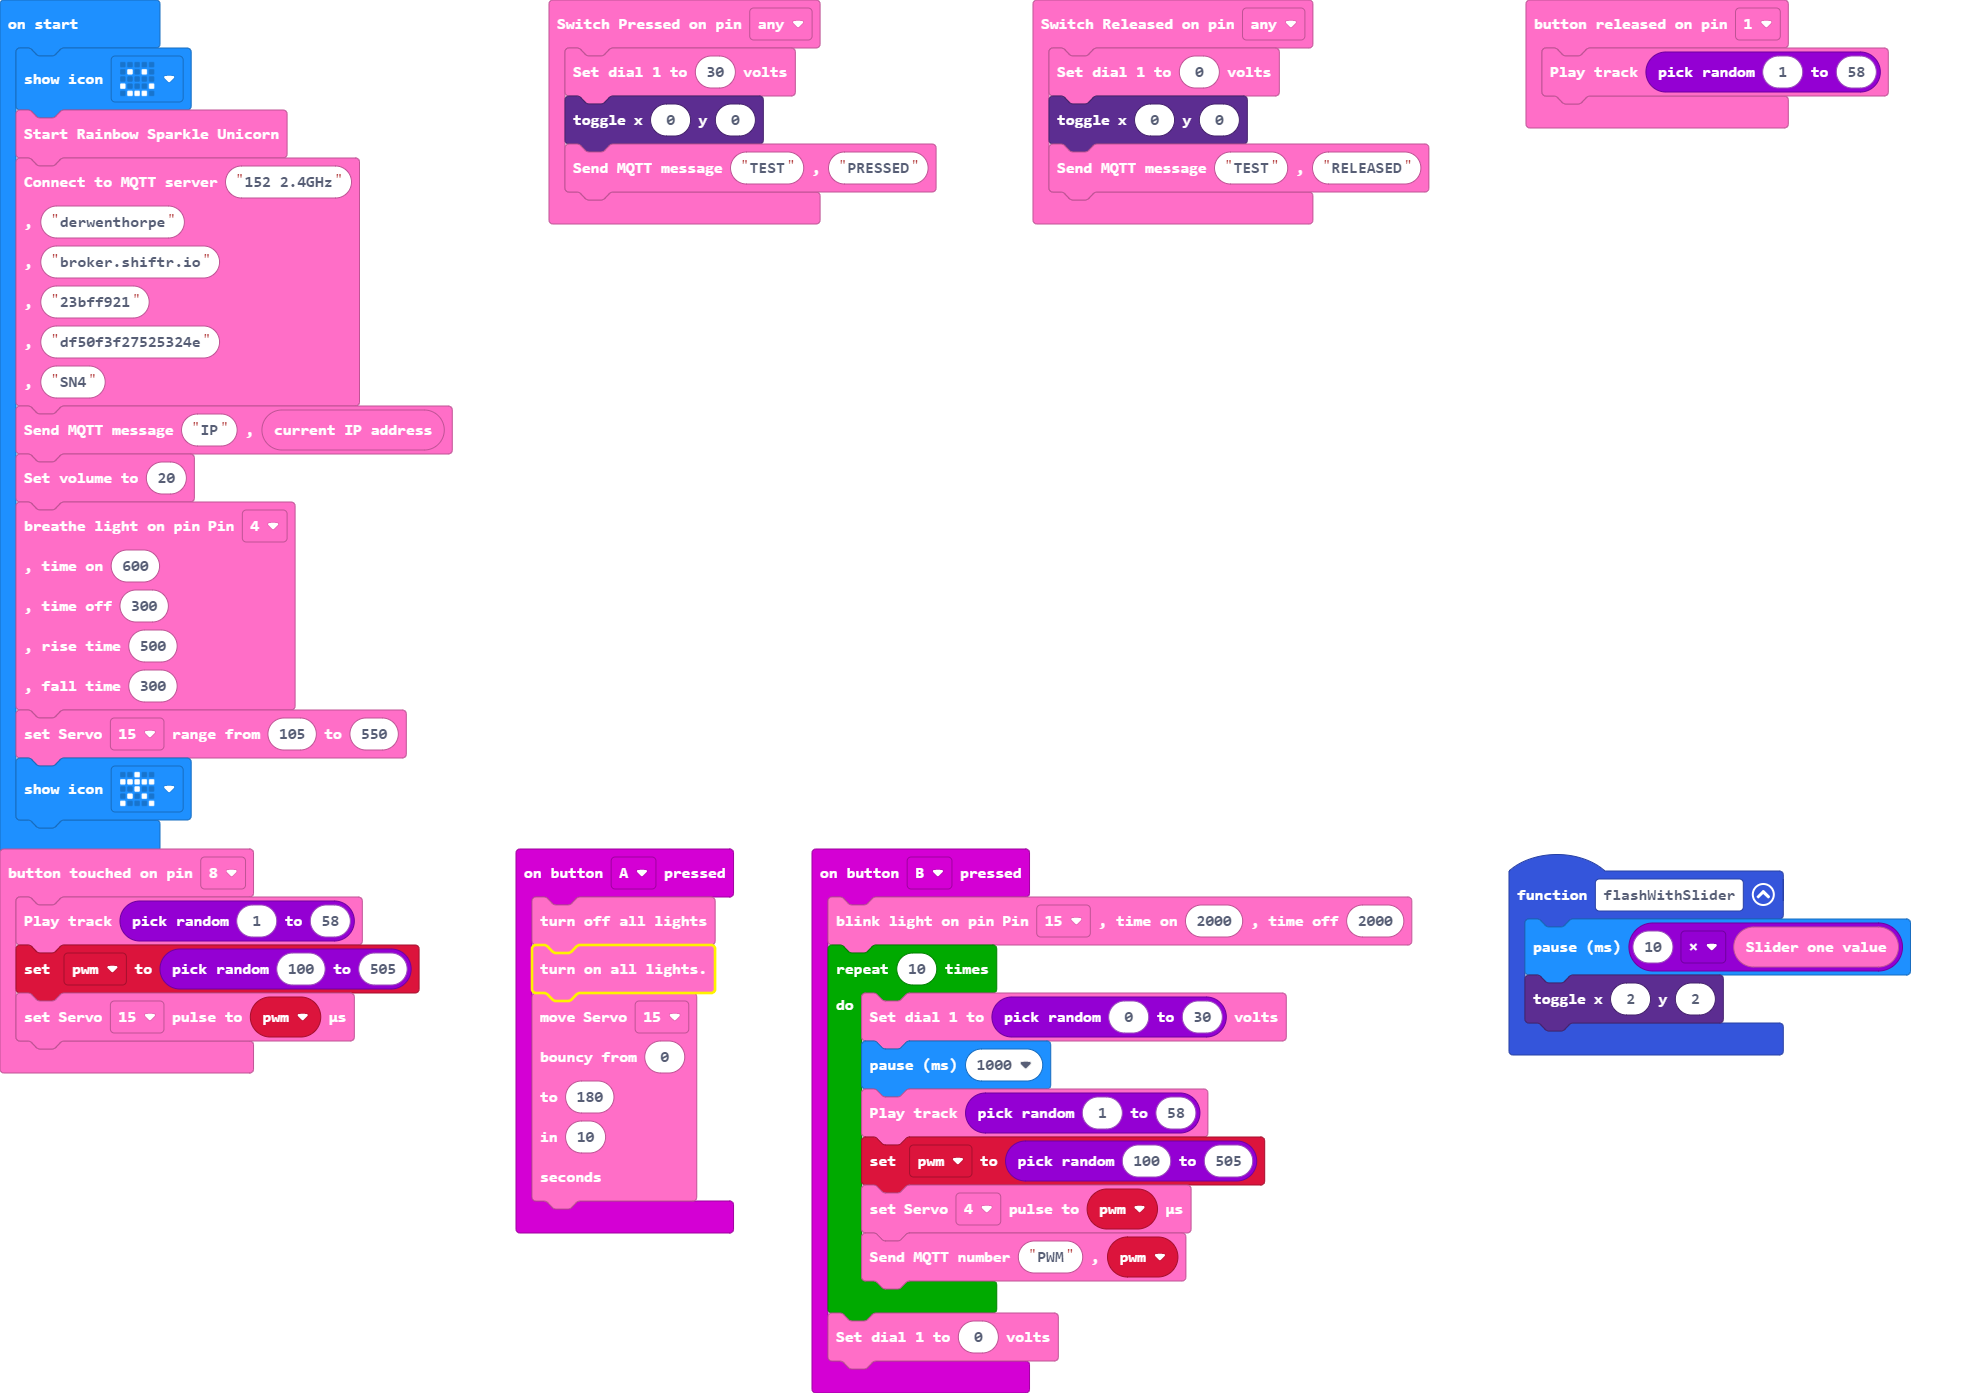
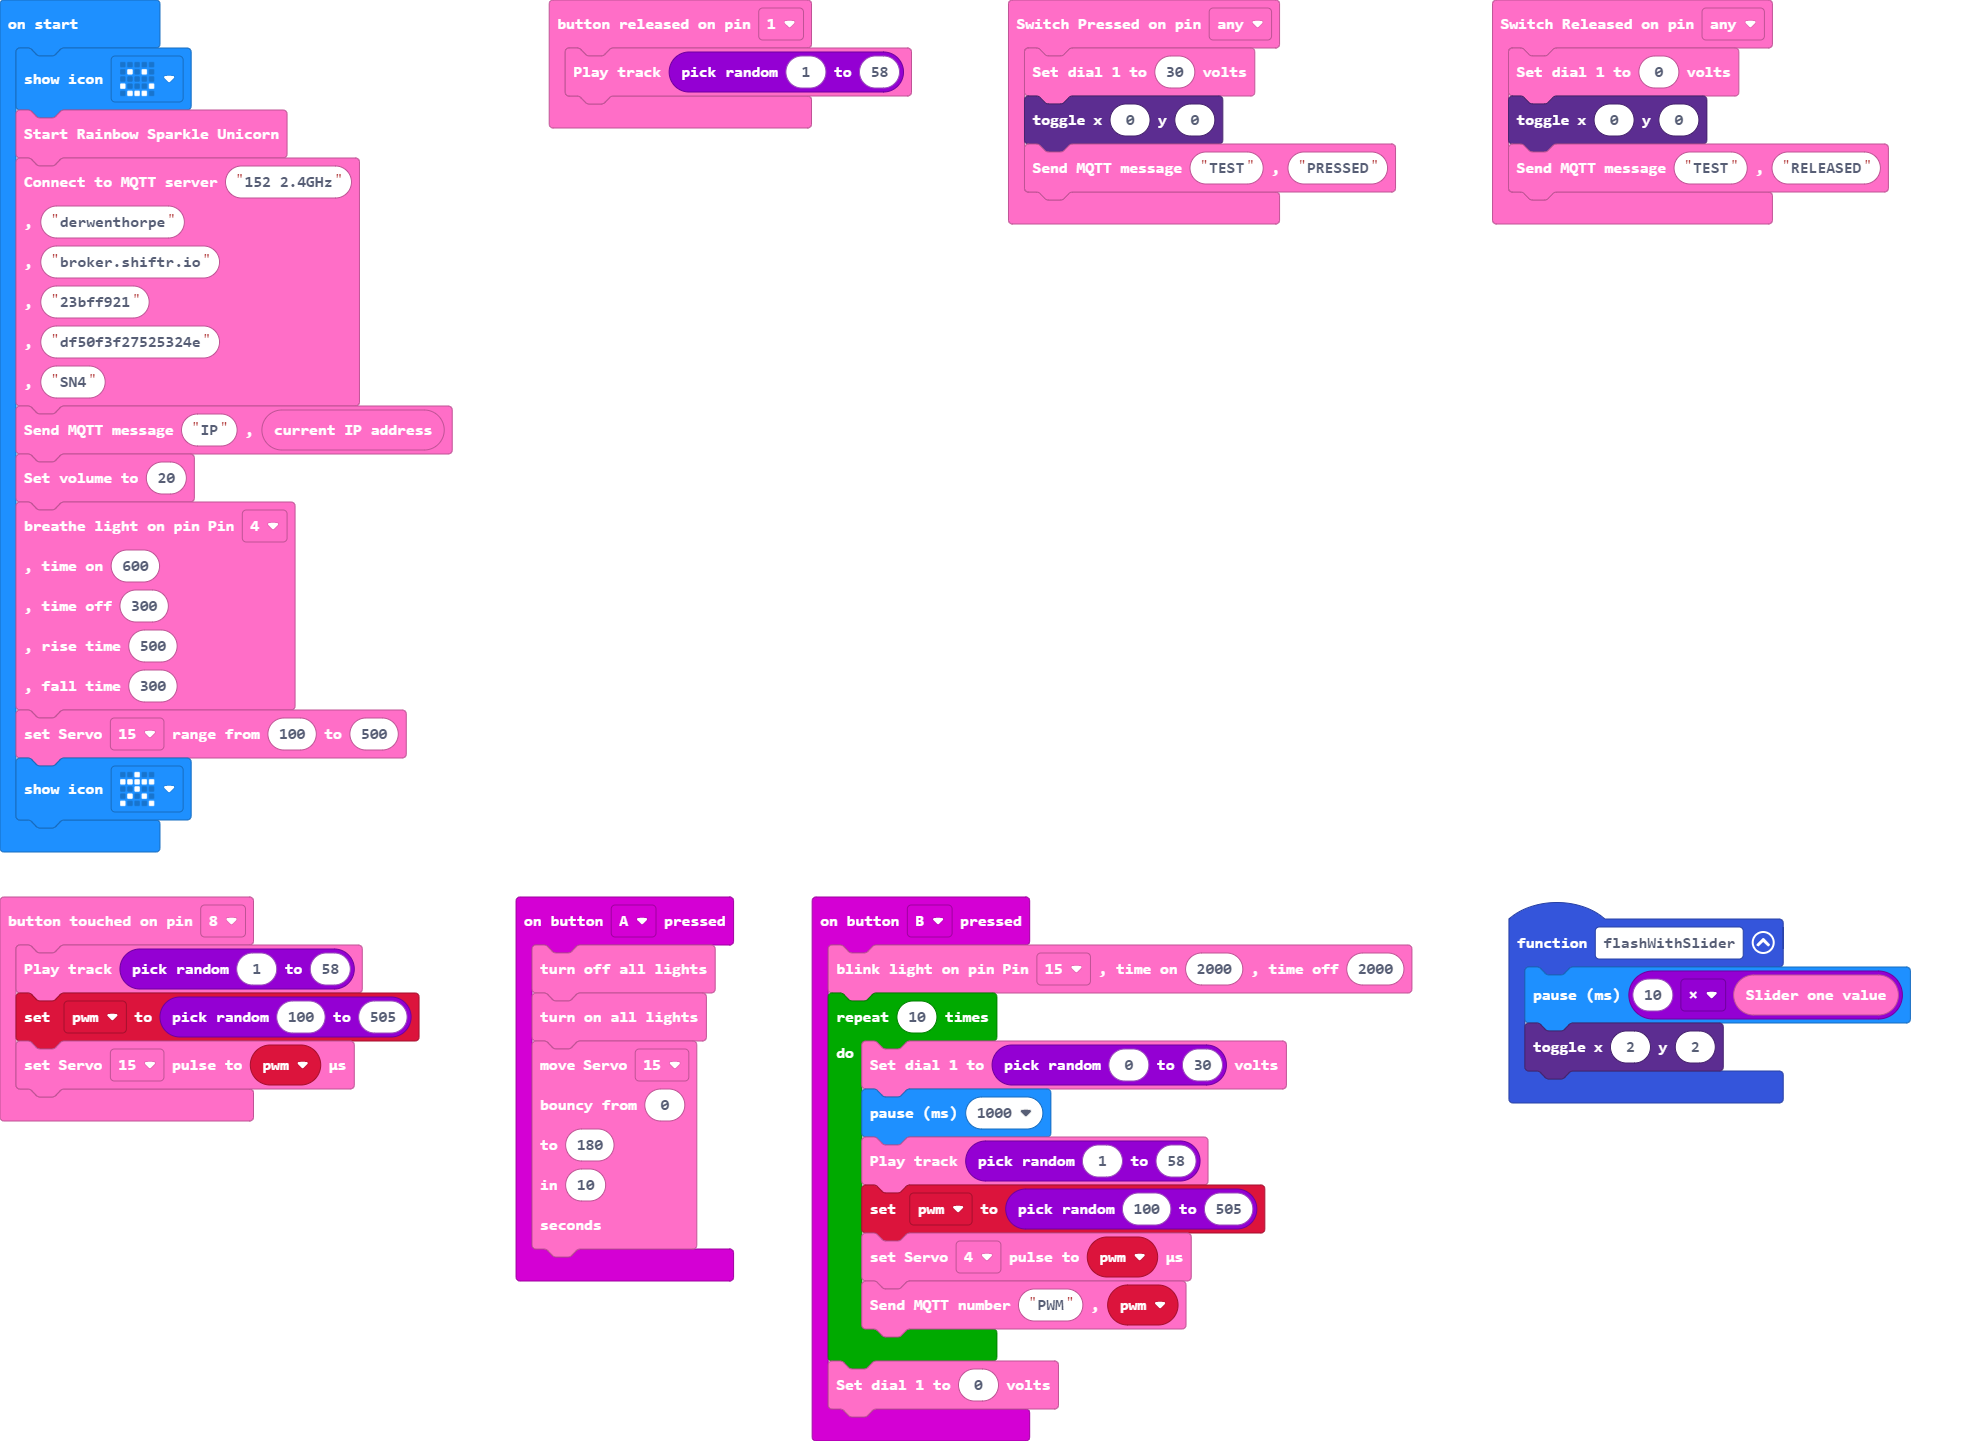
Update pxt.json, main.blocks, main.ts, movement.ts

diff --git a/movement.ts b/movement.ts
@@ -3,19 +3,19 @@ namespace RainbowSparkleUnicorn {
 
 enum ServoType {
     //% block="Normal"
-    ST0 = 0,
+    Normal = 0,
     //% block="Rotating"
-    ST1 = 1
+    Rotating = 1
 }       
 
-let _minPulse = [100];
-let _maxPulse = [500];
-let _servoType = [ServoType.ST0];
+let minPulse = pins.createBuffer(16);
+let maxPulse = pins.createBuffer(16);
+let servoType = pins.createBuffer(16);
 
-for(let i = 0; i < 15; i++) {
-    _minPulse.push(_minPulse[0]);
-    _maxPulse.push(_maxPulse[0]);
-   _servoType.push(_servoType[0]);    
+for(let i = 0; i < 16; i++) {
+   maxPulse[i] = 500;
+    minPulse[i] = 100;
+   servoType[i] = 0;   
 }
 
     //% subcategory="Expert" 
@@ -29,21 +29,21 @@ for(let i = 0; i < 15; i++) {
 
     //% subcategory="Movement" 
     //% block="set $servo range from %minimumPulse to %maximumPulse"
-    //% minimumPulse.min=0 minimumPulse.max=4096
+    //% minimumPulse.min=0 minimumPulse.max=4096 miniumPulse.default=100
     //% maximumPulse.min=0 maximumPulse.max=4096
     export function setServoRange(servo: Servo, minimumPulse=100, maximumPulse=500) {
         minimumPulse = Math.clamp(0, 4096, minimumPulse);
         maximumPulse = Math.clamp(0, 4096, maximumPulse);
 
         //make sure they are right way around
-        _minPulse[servo] = Math.min(minimumPulse,maximumPulse);
-        _maxPulse[servo] = Math.max(minimumPulse,maximumPulse);
+        minPulse[servo] = Math.min(minimumPulse,maximumPulse);
+       maxPulse[servo] = Math.max(minimumPulse,maximumPulse);
     }    
 
     //% subcategory="Movement" 
     //% block="set $servo type $servoType"
-    export function setServoType(servo: Servo, servoType: ServoType) {
-        _servoType[servo] = servoType;
+    export function setServoType(servo: Servo, sType: ServoType) {
+     servoType[servo] = sType;
     }        
 
     //% subcategory="Movement" 
@@ -51,10 +51,10 @@ for(let i = 0; i < 15; i++) {
     //% angle.min=0 angle.max=180
     export function setServoAngle(servo: Servo, angle=90) {
         angle = Math.clamp(0, 180, angle);
-        const minPulse = _minPulse[servo];
-        const maxPulse = _maxPulse[servo];
+        const minP = minPulse[servo];
+        const maxP = maxPulse[servo];
 
-        sendMessage("V2," + servo + "," + angle + "," + minPulse + "," + maxPulse);
+        sendMessage("V2," + servo + "," + angle + "," + minP + "," + maxP);
     }
  
    //% subcategory="Movement" 
@@ -67,10 +67,10 @@ for(let i = 0; i < 15; i++) {
         toAngle = Math.clamp(0, 180, toAngle);
         duration = Math.min(0, duration);
 
-        const minPulse = _minPulse[servo];
-        const maxPulse = _maxPulse[servo];
+        const minP = minPulse[servo];
+        const maxP = maxPulse[servo];
 
-        sendMessage("V3," + servo + "," + fromAngle + "," + toAngle +"," + duration +"," + minPulse + "," + maxPulse);
+        sendMessage("V3," + servo + "," + fromAngle + "," + toAngle +"," + duration +"," + minP + "," + maxP);
     }
 
     //% subcategory="Movement" 
@@ -83,10 +83,10 @@ for(let i = 0; i < 15; i++) {
         toAngle = Math.clamp(0, 180, toAngle);
         duration = Math.min(0, duration);
 
-        const minPulse = _minPulse[servo];
-        const maxPulse = _maxPulse[servo];
+        const minP = minPulse[servo];
+        const maxP=maxPulse[servo];
 
-        sendMessage("V4," + servo + "," + fromAngle + "," + toAngle +"," + duration +"," + minPulse + "," + maxPulse);
+        sendMessage("V4," + servo + "," + fromAngle + "," + toAngle +"," + duration +"," + minP + "," + maxP);
     }
 
     //% subcategory="Movement" 
@@ -99,10 +99,10 @@ for(let i = 0; i < 15; i++) {
         toAngle = Math.clamp(0, 180, toAngle);
         duration = Math.min(0, duration);
 
-        const minPulse = _minPulse[servo];
-        const maxPulse = _maxPulse[servo];
+        const minP = minPulse[servo];
+        const maxP =maxPulse[servo];
 
-        sendMessage("V5," + servo + "," + fromAngle + "," + toAngle +"," + duration +"," + minPulse + "," + maxPulse);
+        sendMessage("V5," + servo + "," + fromAngle + "," + toAngle +"," + duration +"," + minP + "," + maxP);
     }
 }
 

diff --git a/main.ts b/main.ts
@@ -62,5 +62,5 @@ Breathable.Breathable4,
 500,
 300
 )
-RainbowSparkleUnicorn.setServoRange(Servo.S15, 105, 550)
+RainbowSparkleUnicorn.setServoRange(Servo.S15, 100, 500)
 basic.showIcon(IconNames.StickFigure)
